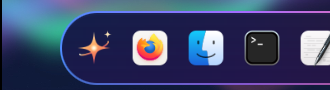
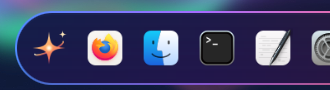
Configurações › Dock: 9 modelos novos + Mac; clássicos em "Mais modelos"
As miniaturas ficam alinhadas pela estrela do CarinaeOS.

Claude-Session: https://claude.ai/code/session_01SG93S6BBpm9MJoTodrWfzs

diff --git a/carinae-debian/sistema/usr/share/carinaeos/configuracoes/Main.qml b/carinae-debian/sistema/usr/share/carinaeos/configuracoes/Main.qml
@@ -20,6 +20,7 @@ ApplicationWindow {
     readonly property color texto: "#f2f0f6"
     readonly property color suave: "#a8a3b6"
     readonly property color realce: "#7aa7ff"
+    property bool maisModelos: false        // Configurações › Dock: mostrar os modelos clássicos
     readonly property color linha: Qt.rgba(1, 1, 1, 0.07)
     property string pagina: ajustes.inicio
     readonly property var e: ajustes.estado
@@ -781,7 +782,7 @@ ApplicationWindow {
                     titulo: "Modelo"
                     Item {
                         width: parent.width
-                        height: gradeModelos.implicitHeight + 28
+                        height: gradeModelos.implicitHeight + 28 + 44
                         Flow {
                             id: gradeModelos
                             x: 14; y: 14; width: parent.width - 28
@@ -792,13 +793,14 @@ ApplicationWindow {
                                     ["minimalista", "Minimalista", "Só uma linha fina"], ["colorida", "Colorida", "Borda em degradê"],
                                     ["orbital", "Orbital", "Bolhas de vidro"], ["hexagonal", "Hexagonal", "Afastam-se ao passar o mouse"],
                                     ["icones", "Só ícones", "Sem fundo, afastam-se"], ["redondos", "Redondos", "Círculos, afastam-se"],
-                                    ["aereo", "Aéreo", "Vidro azulado com luzes"],
-                                    ["mac", "Mac claro", "Clássico"], ["escuro", "Mac escuro", "Clássico"], ["transparente", "Transparente", "Clássico"],
+                                    ["aereo", "Aéreo", "Vidro azulado com luzes"], ["mac", "Mac", "Vidro claro, como no macOS"]
+                                ].concat(janela.maisModelos ? [
+                                    ["escuro", "Mac escuro", "Clássico"], ["transparente", "Transparente", "Clássico"],
                                     ["bolhas", "Bubbles", "Clássico"], ["squircle", "Squircle", "Clássico"], ["rosepine", "Rosé Pine", "Clássico"],
                                     ["xp", "Windows XP", "Clássico"], ["vista", "Vista", "Clássico"], ["translucido", "Translúcido", "Clássico"],
                                     ["docklike", "DockLike", "Clássico"], ["matter", "Matter", "Clássico"], ["lucent", "Lucent", "Clássico"],
                                     ["neon", "Neon", "Clássico"]
-                                ]
+                                ] : [])
                                 delegate: Rectangle {
                                     id: cartaoModelo
                                     required property var modelData
@@ -827,6 +829,12 @@ ApplicationWindow {
                                     }
                                 }
                             }
+                        }
+                        Botao {
+                            anchors.horizontalCenter: parent.horizontalCenter
+                            anchors.bottom: parent.bottom; anchors.bottomMargin: 12
+                            texto: janela.maisModelos ? "Menos modelos" : "Mais modelos (clássicos)…"
+                            onCarregado: janela.maisModelos = !janela.maisModelos
                         }
                     }
                 }
